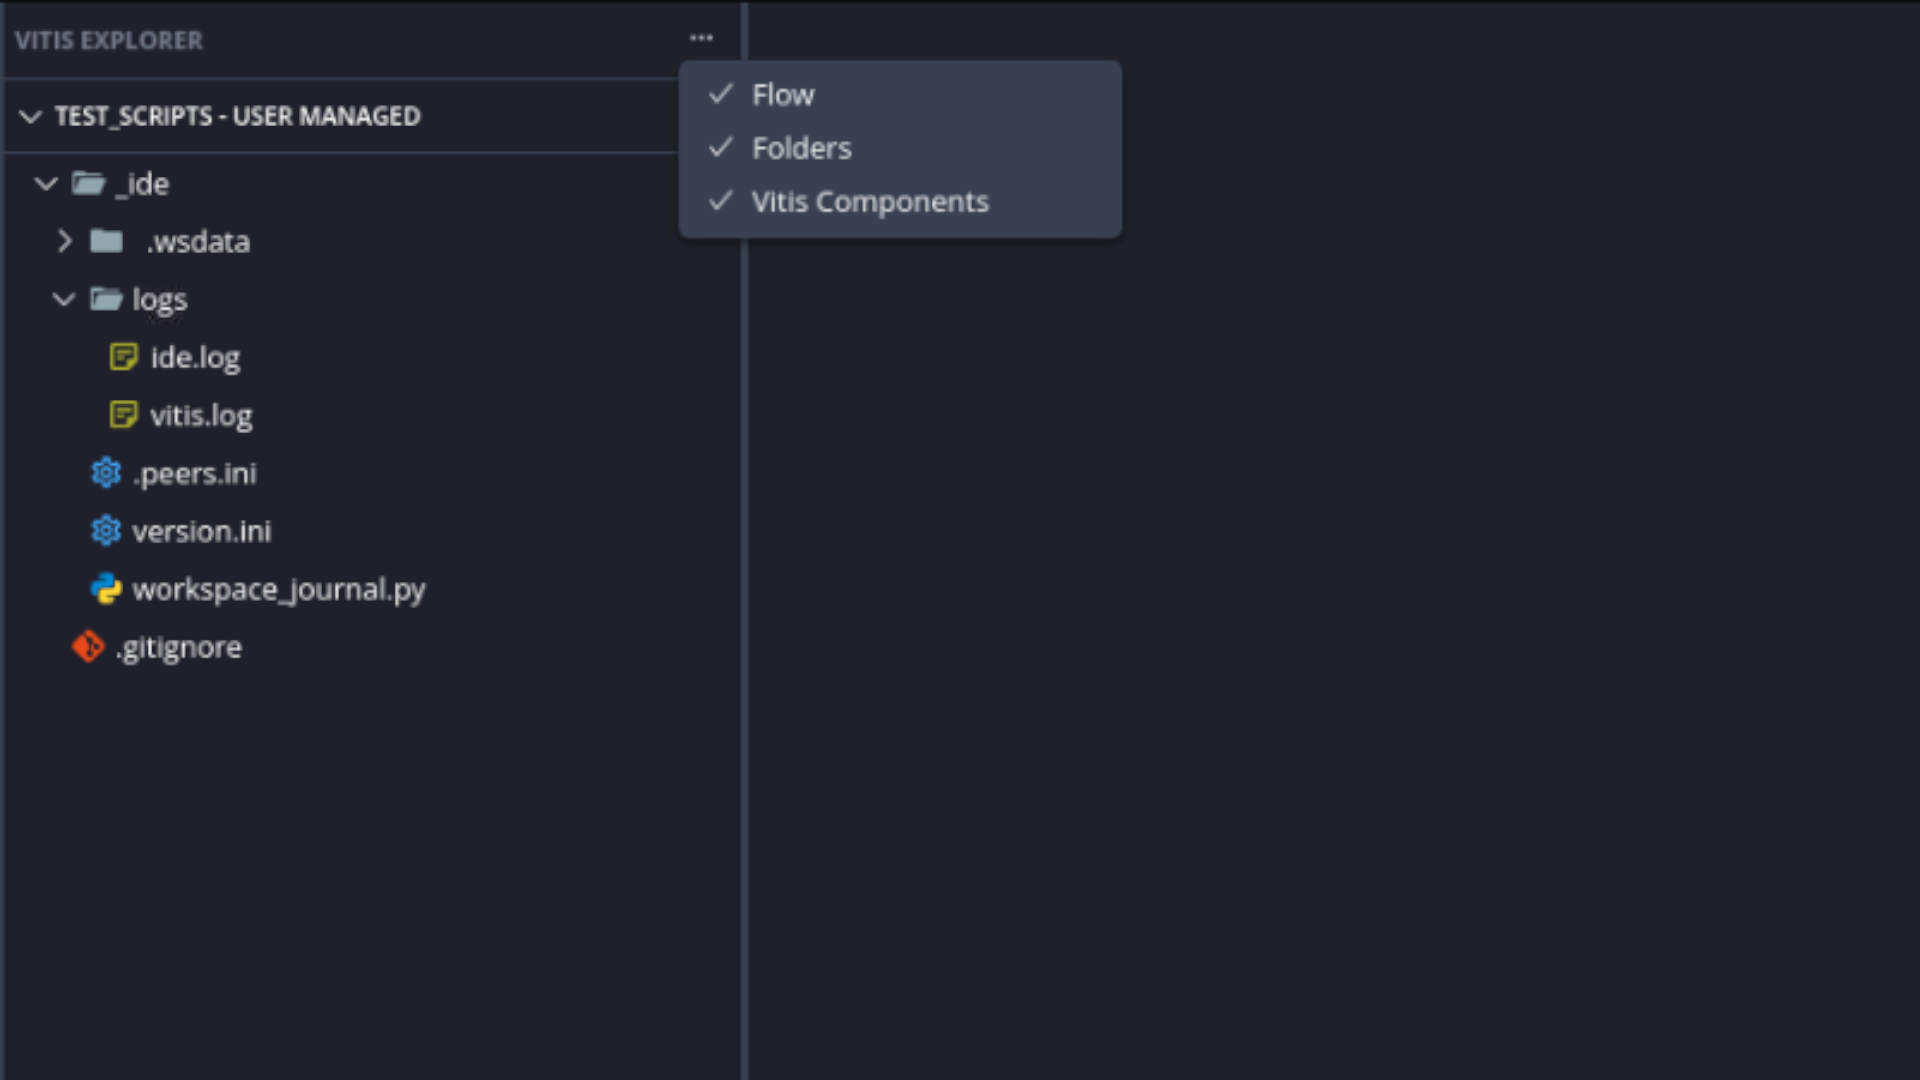
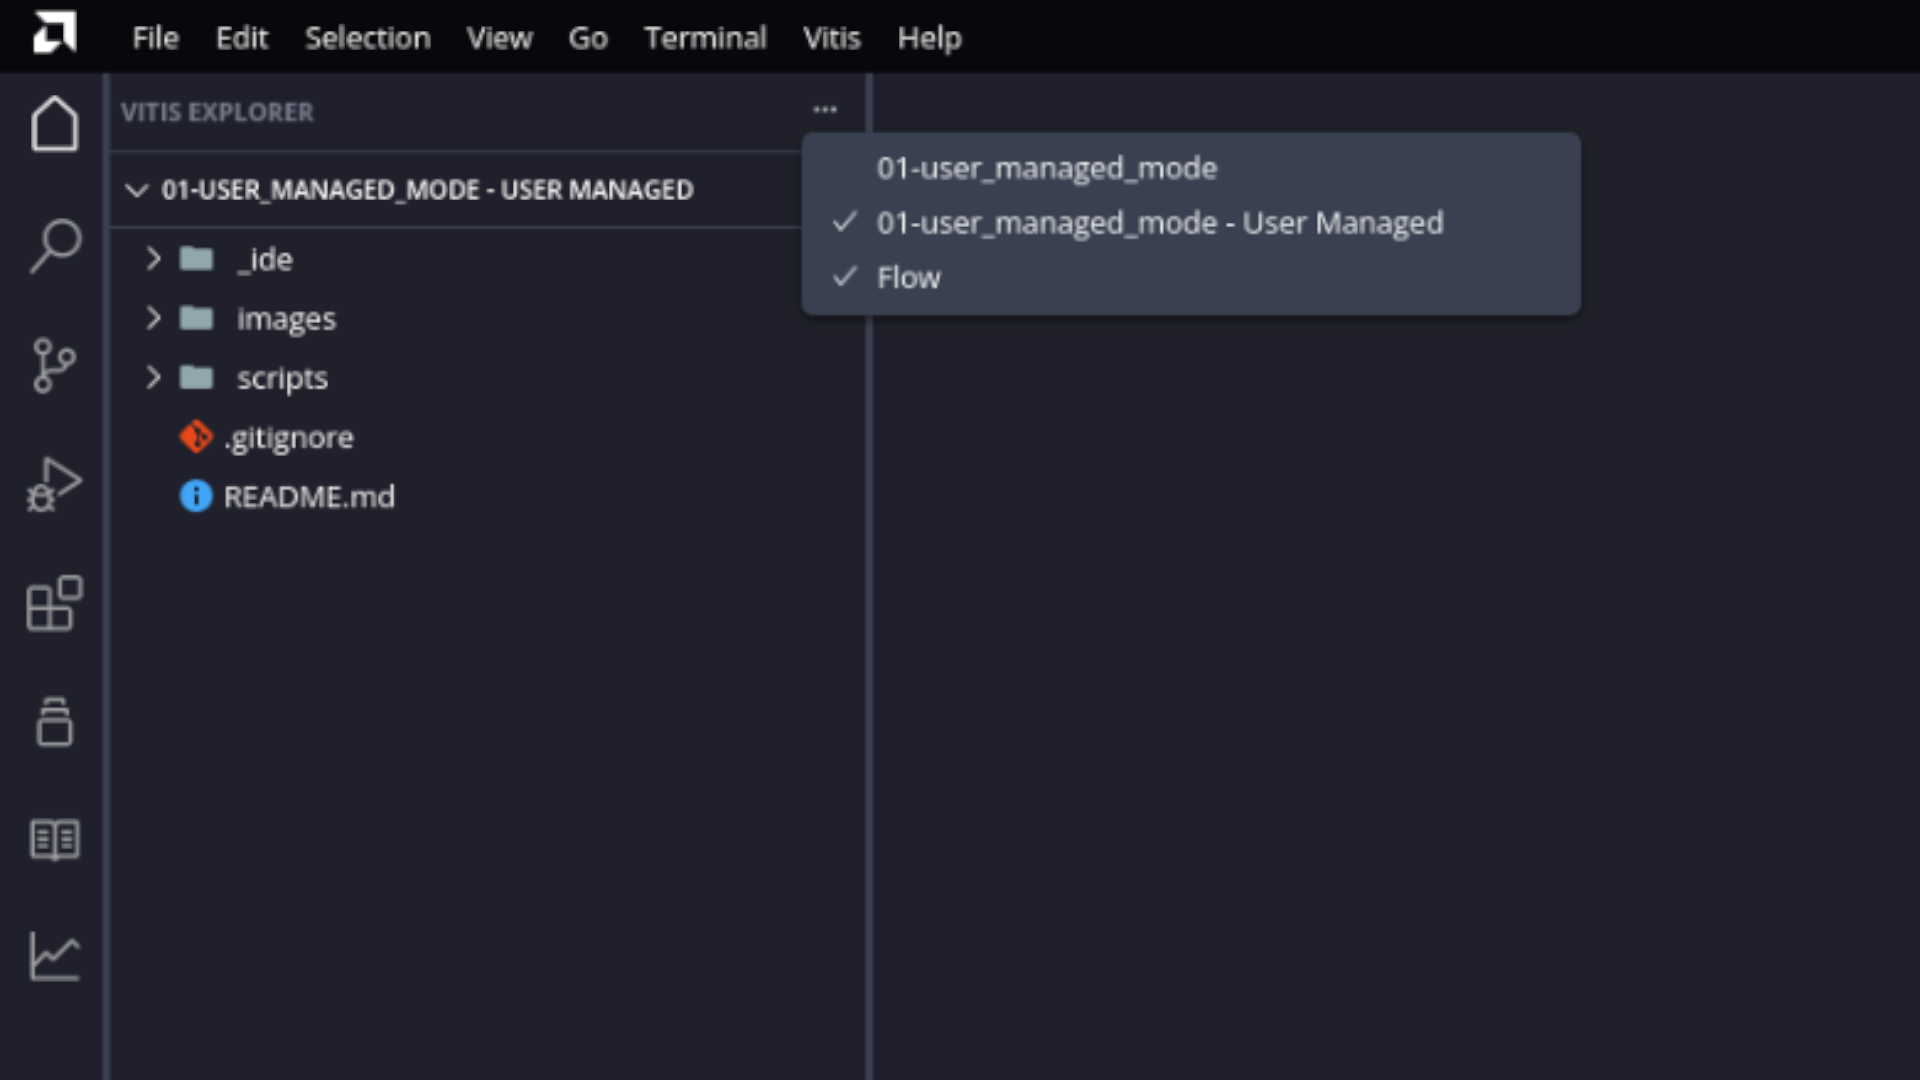
ES/F/01-User managed mode: Update to 2025.2

Changed region(s): [[0.0, 0.0, 1.0, 1.0], [0.0, 0.7333, 0.0625, 0.825], [0.0, 0.8556, 0.0625, 0.9167]]

diff --git a/Embedded_Software/Feature_Tutorials/01-user_managed_mode/scripts/xsct_script.py b/Embedded_Software/Feature_Tutorials/01-user_managed_mode/scripts/xsct_script.py
@@ -10,8 +10,7 @@ import vitis
 import os
 import subprocess
 import re
-
-
+import sys
 
 def make_platform(xsa):
     extension = os.path.splitext(xsa)[1]
@@ -99,9 +98,15 @@ def build_uboot(xsa):
         defconfig = "xilinx_zynqmp_virt_defconfig"
     if arch == "versal":
         print("Using xilinx_versal_virt_defconfig")
-        defconfig = "xilinx_versal_virt_defconfig"
-    result = subprocess.run(["cd u-boot-xlnx && make "+defconfig+" && make -f Makefile all -j 32"], shell=True, capture_output=True, text=True)
+        defconfig = "xilinx_versal_virt_defconfig"  
+    result = subprocess.run(["make", defconfig], cwd="u-boot-xlnx", capture_output=True, text=True)
     print(result.stdout)
+    print(result.stderr)
+
+    result2 = subprocess.run(["make", "-f", "Makefile", "all", "-j", "32"], cwd="u-boot-xlnx", capture_output=True, text=True)
+    print(result2.stdout)
+    print(result2.stderr)
+
 
 def build_atf(xsa):
     extension = os.path.splitext(xsa)[1]

diff --git a/Embedded_Software/Feature_Tutorials/01-user_managed_mode/README.md b/Embedded_Software/Feature_Tutorials/01-user_managed_mode/README.md
@@ -13,7 +13,7 @@
 
 # User Managed Mode in Vitis Unified Embedded IDE
 
-***Version: Vitis 2025.1***
+***Version: Vitis 2025.2***
 
 This is a new feature with the Vitis Unified Embedded IDE, where users can add a makefile and argument that can be used to create custom builds. This allows the user more control over their project builds instead of letting the tools generate the components.
 
@@ -28,17 +28,15 @@ This tutorial describes three use cases for the **User Managed Mode**.
 
 ### Let’s get started
 
-Launch Vitis 2025.1, select **open_workspace**, and navigate to the `Vitis-Tutorials/Embedded_Software/Feature_Tutorials/01-user_managed_mode` directory
-
-Select the **Open Explorer View**
+Launch Vitis 2025.2, select **open_workspace**, and navigate to the `Vitis-Tutorials/Embedded_Software/Feature_Tutorials/01-user_managed_mode` directory. The workspace will load in the 'User Maged Mode' view.
 
 ![](./images/user_managed_mode.PNG)
 
 ### Generating Build Configuration
 
-In this use case, we shall be using the Python script introduced in the *04-vitis_scripting_flows* to build a workspace and with a simple Hello World application template. However, users can also utilize the Python script `logs/workspace_journal.py` that gets generated for every Vitis Unified IDE workspace. Make sure you have copied the **unified_workspace.py** python file to your workspace.
+In this use case, we shall be using the Python script introduced in the *04-vitis_scripting_flows* to build a workspace and with a simple Hello World application template. Therefore firstly, you will want to copy the `unified_workspace.py` and `create_xsa.tcl` files to your *01-user_managed_mode* workspace.However, users can also utilize the Python script `logs/workspace_journal.py` that gets generated for every Vitis Unified IDE workspace.  Make sure you have already executed the **create_xsa.tcl** to create the hardware design.
 
-On the left hand side you should see the **User Managed Mode View**. If the **User Managed Mode View** is not there then select the three dots in the explorer view and select **folders** which will load the **User Managed Mode View**. 
+On the left hand side you should see the **User Managed Mode View**. If the **User Managed Mode View** is not there then select the three dots in the explorer view and select **User Managed** which will load the **User Managed Mode View**. 
 
 ![](./images/three_dots.png)
 
@@ -84,7 +82,7 @@ In this use case, we can build the example using the scripts given [here](https:
 
 ### Lets get started
 
-Launch Vitis 2025.1, select **open_workspace**, and navigate to the `Vitis-Tutorials/Embedded_Software/Feature_Tutorials/01-user_managed_mode` directory
+Launch Vitis 2025.2, select **open_workspace**, and navigate to the `Vitis-Tutorials/Embedded_Software/Feature_Tutorials/01-user_managed_mode` directory
 
 Select the **Open Explorer View**
 
@@ -125,7 +123,7 @@ Each section above can be built independently. For example, if users want to mak
 
 ### Lets get started
 
-Launch Vitis 2025.1, select **open_workspace**, and navigate to the `Vitis-Tutorials/Embedded_Software/Feature_Tutorials/01-user_managed_mode` directory
+Launch Vitis 2025.2, select **open_workspace**, and navigate to the `Vitis-Tutorials/Embedded_Software/Feature_Tutorials/01-user_managed_mode` directory
 
 Select the **Open Explorer View**
 
